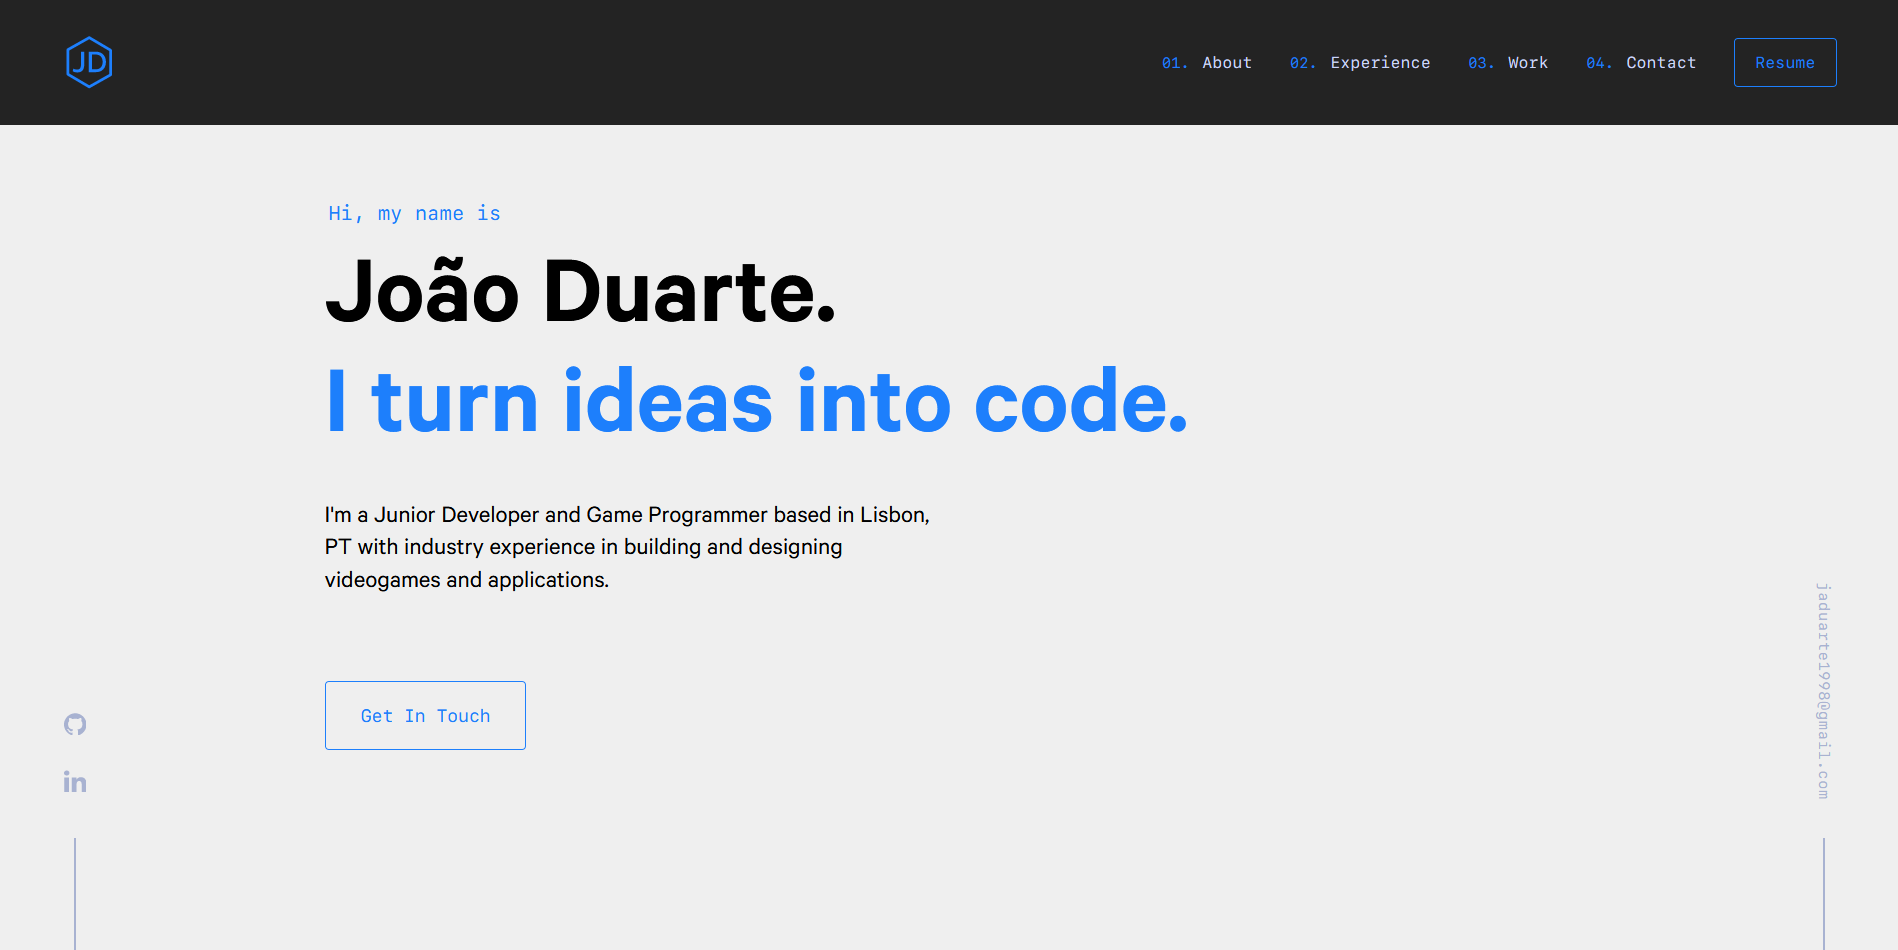
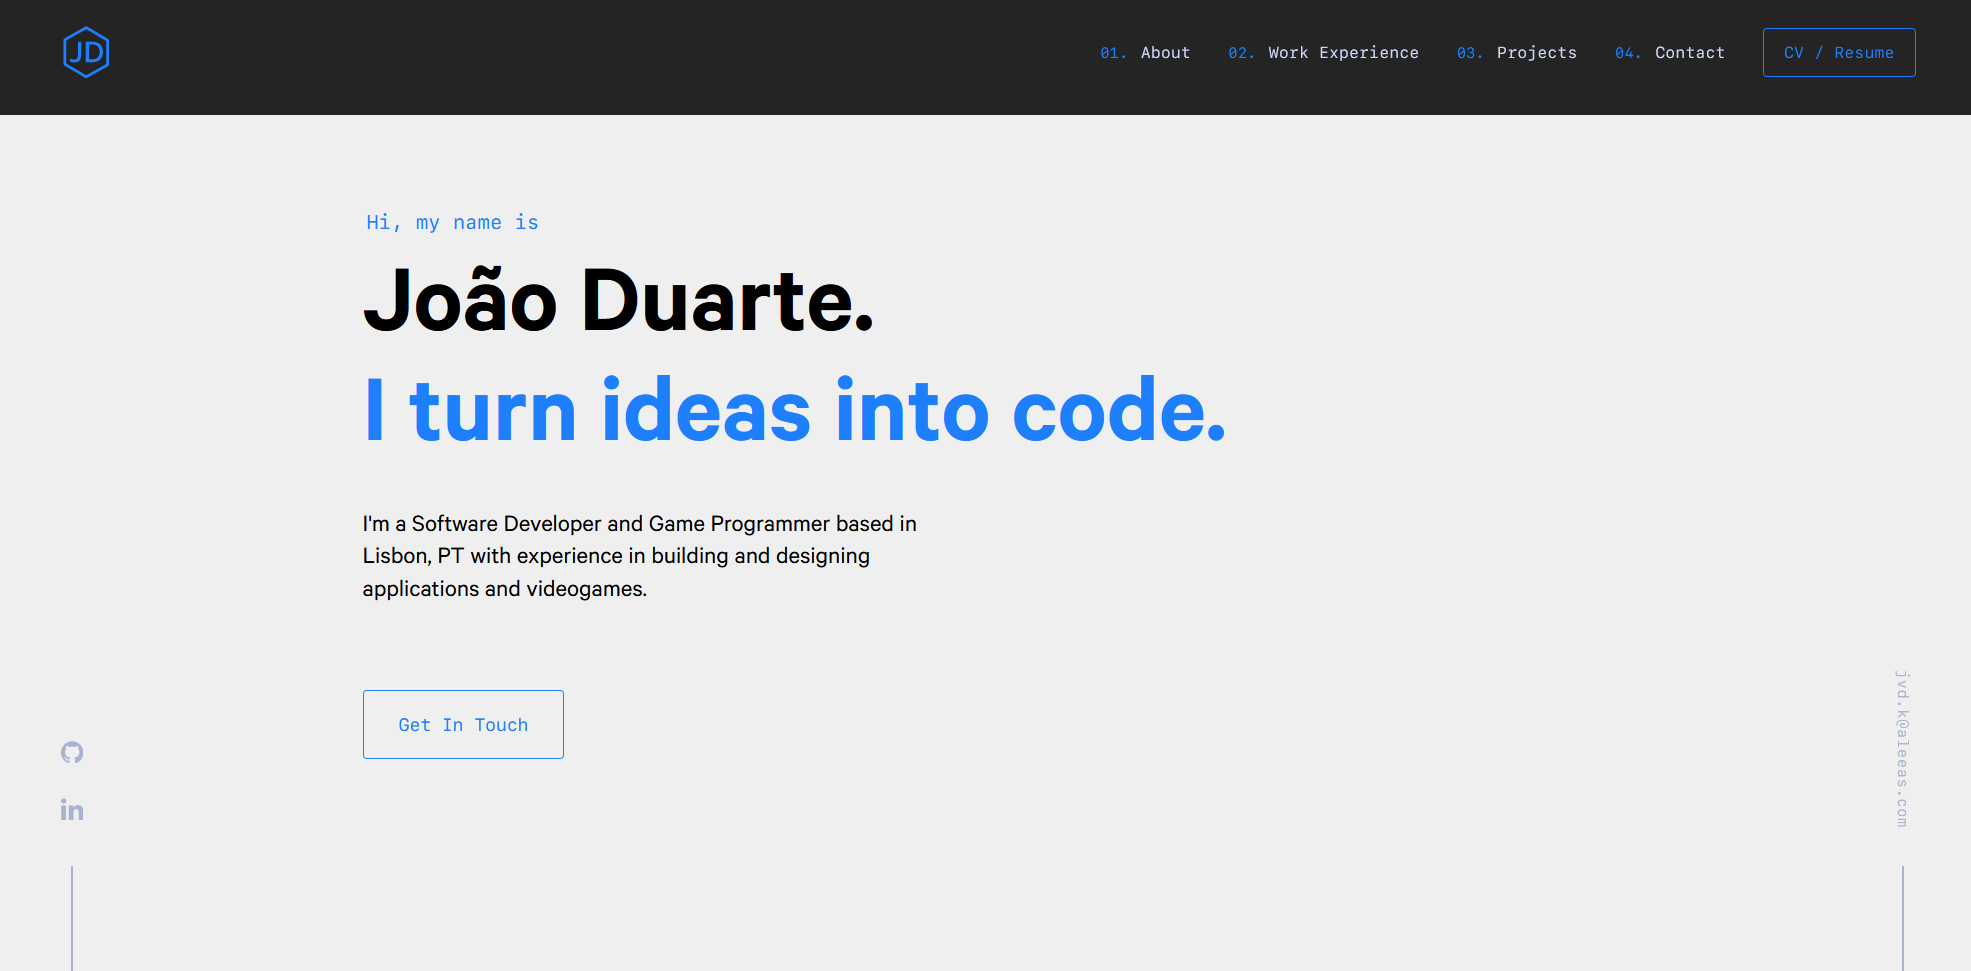
Update jobs and links

diff --git a/src/config/index.js b/src/config/index.js
@@ -1,25 +1,25 @@
 module.exports = {
   siteTitle: 'João Duarte',
   siteDescription:
-    'Polyvalent and practical Junior Developer and Game Programmer based in Lisbon, PT with industry experience building and designing applications and videogames.',
+    'Polyvalent and practical Software Developer and Game Programmer based in Lisbon, PT with experience building and designing applications and videogames.',
   siteKeywords:
-    'João Duarte, João, Duarte, JoaoAVDuarte, Junior Programmer, Junior Developer, Game Programmer, Game developer, unity, unreal, web developer, javascript, portugal',
+    'João Duarte, João, Duarte, JoaoAVDuarte, Programmer, Software Developer, Game Programmer, Game developer, unity, unreal, web developer, javascript, portugal',
   siteUrl: 'https://jvd.netlify.com',
   siteLanguage: 'en_US',
   image: '',
   name: 'João Duarte',
   location: 'Lisbon, Portugal',
   email: 'jvd.k@aleeas.com',
-  github: 'https://github.com/JoaoAVDuarte',
-  linkedin: 'https://www.linkedin.com/in/JoaoAVDuarte/',
+  github: 'https://github.com/joavd',
+  linkedin: 'https://www.linkedin.com/in/joavd/',
   socialMedia: [
     {
       name: 'Github',
-      url: 'https://github.com/JoaoAVDuarte',
+      url: 'https://github.com/joavd',
     },
     {
       name: 'Linkedin',
-      url: 'https://www.linkedin.com/in/JoaoAVDuarte/',
+      url: 'https://www.linkedin.com/in/joavd/',
     },
   ],
 

diff --git a/src/components/projects.js b/src/components/projects.js
@@ -120,10 +120,10 @@ const Projects = ({ data }) => {
     revealProjects.current.forEach((ref, i) => sr.reveal(ref, srConfig(i * 100)));
   }, []);
 
-  const GRID_LIMIT = 6;
+  const GRID_LIMIT = 3;
   const projects = data.filter(({ node }) => node.frontmatter.show === 'true');
-  const firstSix = projects.slice(0, GRID_LIMIT);
-  const projectsToShow = showMore ? projects : firstSix;
+  const firstThree = projects.slice(0, GRID_LIMIT);
+  const projectsToShow = showMore ? projects : firstThree;
 
   return (
     <ProjectsContainer>

diff --git a/src/content/jobs/BP2021/index.md b/src/content/jobs/BP2021/index.md
@@ -1,11 +1,14 @@
 ---
 date: '2021-03-15'
-title: 'Junior Full-stack Developer'
+title: 'Full-stack Developer'
 company: 'Blue Prism'
 location: 'Remote, UK'
 range: 'March 2021 - Present'
 url: 'https://www.blueprism.com/'
 ---
 
-- Develop software solutions
-- Use of C#, ASP.NET, SQL, React
+- Developed [BluePrism Decision](https://www.blueprism.com/products/blue-prism-decision/) as part of a sprint team
+- Helped decrease build times of main product by over 33% (15-25min)
+- Aided QA with automated and manual testing and facilitated communication with DevOps
+- Participated in [Secure Code Warrior](https://www.securecodewarrior.com/) courses and tournaments (taking a 1st place at one of them)
+- Use of React, C#, Mobx, Redux, Docker, SQL

diff --git a/src/content/jobs/VivaDrive2020/index.md b/src/content/jobs/VivaDrive2020/index.md
@@ -7,10 +7,10 @@ range: 'October 2020 - February 2021'
 url: 'https://vivadrive.io/'
 ---
 
+International experience in Warsaw, Poland under the Erasmus+ programme.
+
 - Developed the automatic detection and localization of captured footage on the 3D space using open source SLAM and point cloud registration algorithms
 - Developed the image recognition of captured footage to detect specific objects using Yolo
 - Documented and tested the previous and ongoing development
 - Worked directly with external client [Vinçotte](https://www.vincotte.com/) using agile methodologies
 - Use of Python
-
-International experience in Warsaw, Poland under the Erasmus+ programme.

diff --git a/src/content/about/index.md b/src/content/about/index.md
@@ -2,19 +2,17 @@
 title: 'About Me'
 avatar: './me.jpg'
 skills:
-  - C#
-  - Java
-  - C / C++
-  - Python
   - JavaScript
-  - HTML & CSS
+  - C#
+  - React
+  - C / C++
   - SQL
-  - Angular
+  - Python
   - Unity
   - Unreal
 ---
 
-Hello! I'm João, a Junior Developer and Game Programmer living in Lisbon, Portugal.
+Hello! I'm João, a Software Developer and Game Programmer living in Lisbon, Portugal.
 
 I enjoy creating things that allow me to think outside the box, like videogames and applications, using a wide variety of technologies. My goal is to learn a lot and provide great experiences.
 

diff --git a/src/content/hero/index.md b/src/content/hero/index.md
@@ -5,4 +5,4 @@ subtitle: 'I turn ideas into code.'
 contactText: 'Get in Touch'
 ---
 
-I'm a Junior Developer and Game Programmer based in Lisbon, PT with industry experience in building and designing videogames and applications.
+I'm a Software Developer and Game Programmer based in Lisbon, PT with experience in building and designing applications and videogames.
